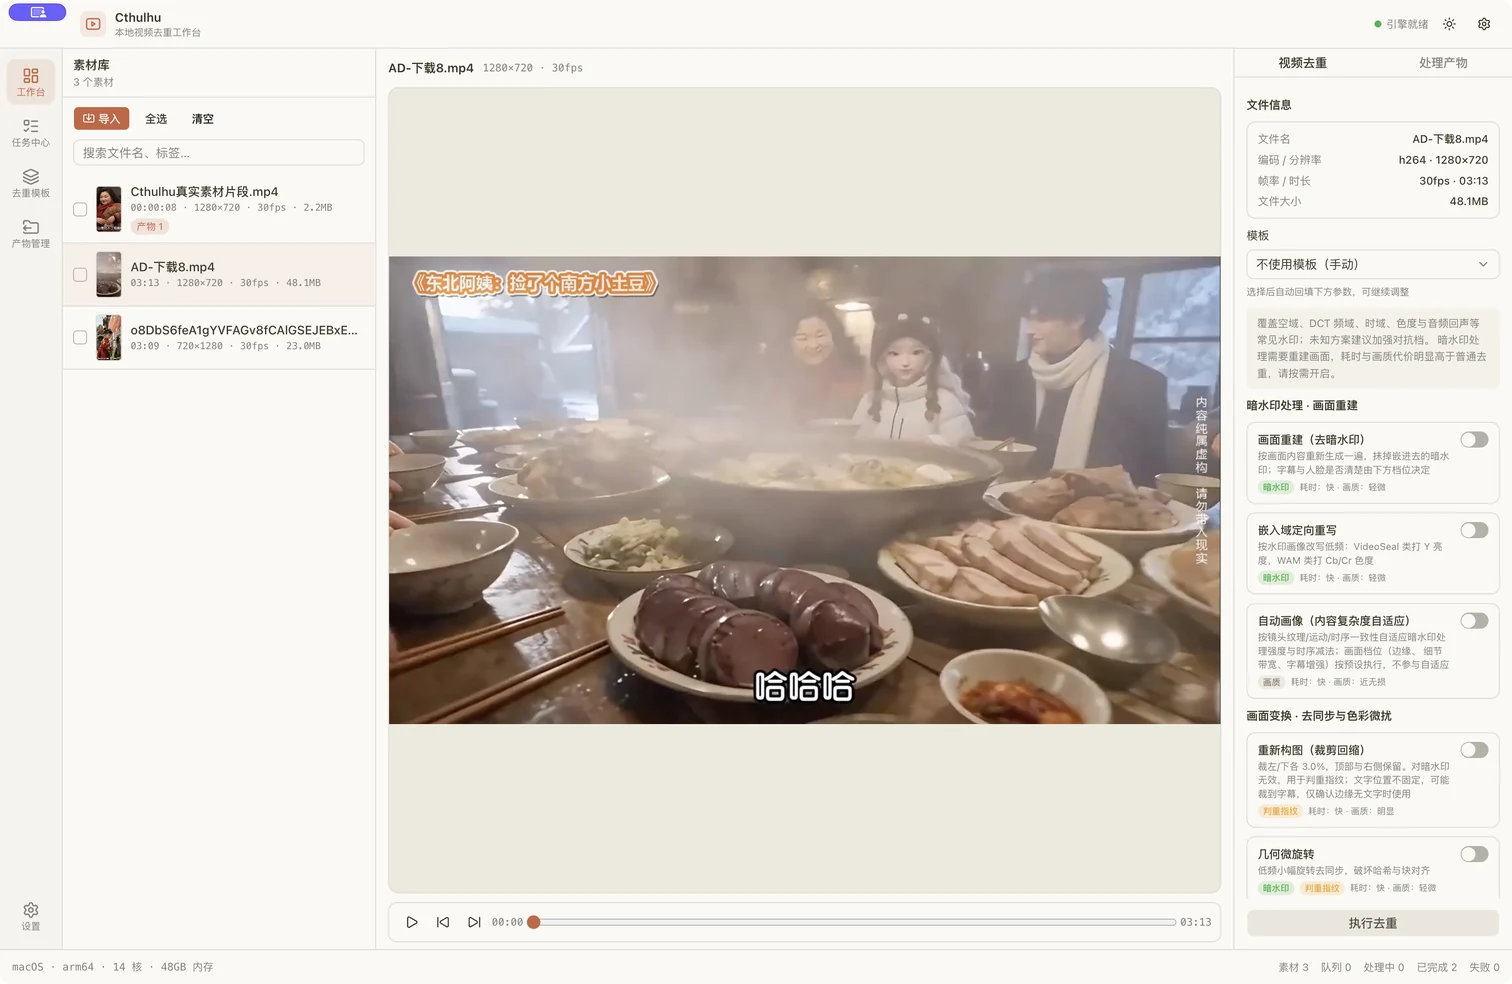
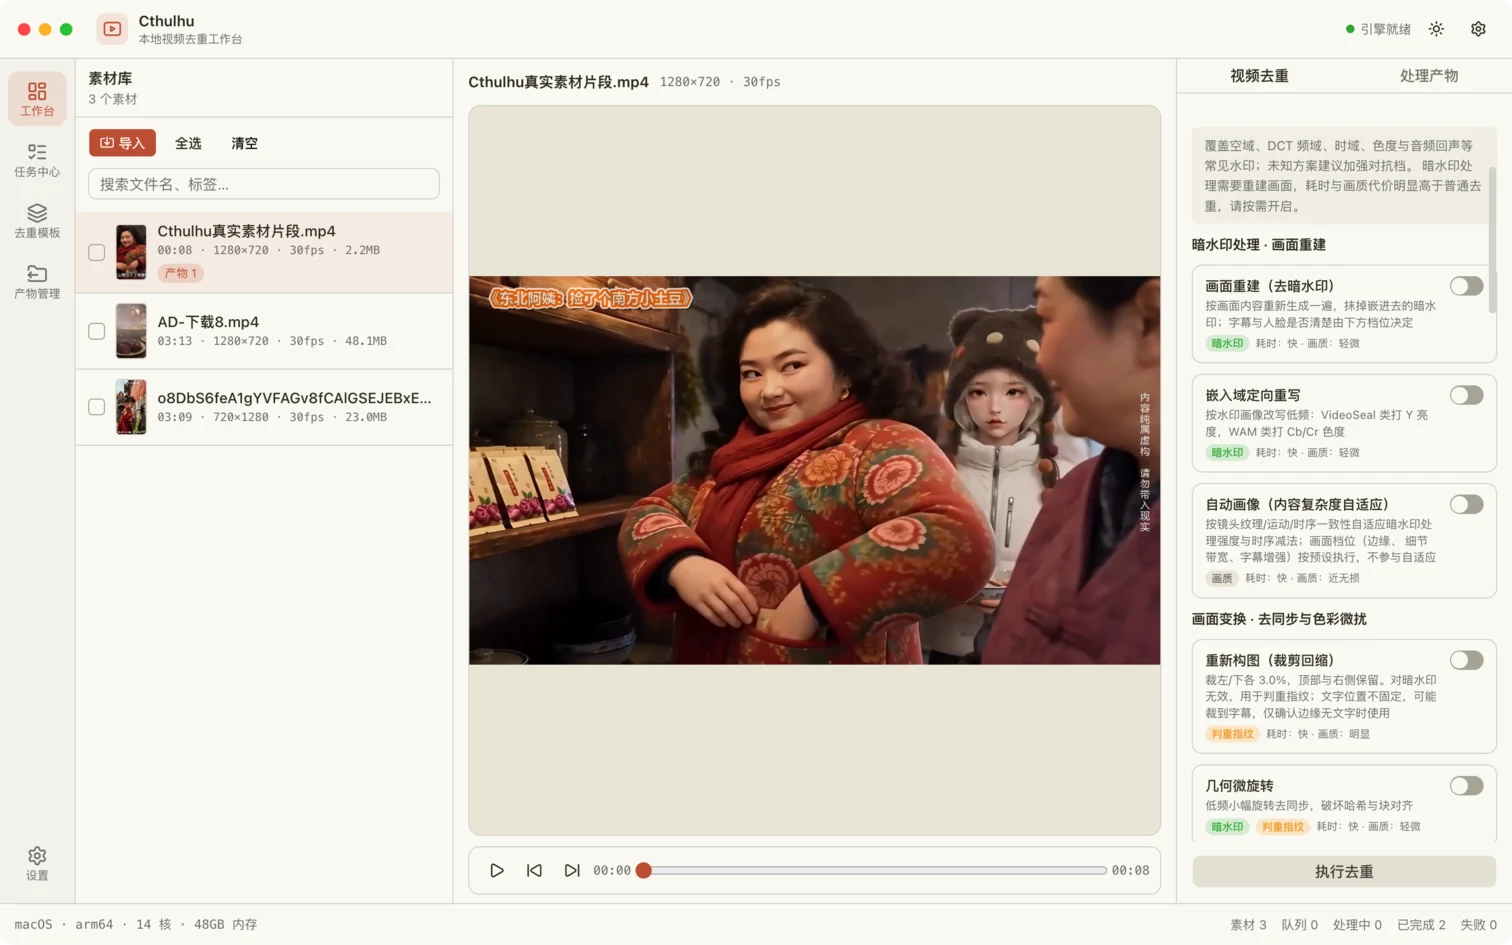
docs: 精简界面截图并更新工作台配图

diff --git a/docs/界面导览.md b/docs/界面导览.md
@@ -6,18 +6,15 @@
 > 规避平台规则、去除版权/溯源水印、侵权搬运、账号矩阵规避或其他违法违规用途。
 > 完整边界见 [使用边界与合规声明](使用边界与合规声明.md)。
 
-本文按视图逐一说明应用的界面构成与交互入口，用于快速建立整体印象。所有截图取自
-当前桌面版，工作台与对比页使用本地真实视频；任务记录中的个人目录路径已脱敏。
+本文按视图逐一说明应用的界面构成与交互入口，用于快速建立整体印象。工作台截图取自
+当前桌面版，使用本地真实视频。
 
 ## 1. 工作台
 
 <p align="center">
-  <picture>
-    <source media="(prefers-color-scheme: dark)" srcset="assets/screenshots/ui-workbench-dark.webp">
-    <img src="assets/screenshots/ui-workbench-light.webp" alt="工作台：左侧素材库、中间真实视频预览、右侧去重参数与产物面板" width="880">
-  </picture>
+  <img src="assets/screenshots/ui-workbench-light.webp" alt="工作台：左侧素材库、中间真实视频预览、右侧去重参数与产物面板" width="880">
   <br>
-  <sub>工作台：素材库 · 预览 · 参数面板（上图为浅色主题，深色主题自动跟随系统或手动切换）</sub>
+  <sub>工作台：素材库 · 预览 · 参数面板（浅色主题）</sub>
 </p>
 
 | 区域 | 内容与入口 |
@@ -28,21 +25,7 @@
 | 右侧 · 处理产物 | 当前素材的产物列表，支持对比原片、播放、打开所在目录、查看参数快照与删除 |
 | 顶部与底部 | 引擎就绪状态、主题切换、设置入口；底部状态栏显示系统信息与素材 / 队列计数 |
 
-### 产物对比
-
-<p align="center">
-  <img src="assets/screenshots/ui-workbench-compare.webp" alt="处理产物与原片的前后对比视图" width="880">
-  <br>
-  <sub>对比原片：同一时间轴上的「原片 / 处理后」滑块对照，用于人工核查观感代价</sub>
-</p>
-
 ## 2. 任务中心
-
-<p align="center">
-  <img src="assets/screenshots/ui-jobs.webp" alt="任务中心：队列状态统计与任务历史列表" width="880">
-  <br>
-  <sub>任务中心：排队 / 处理中 / 已完成 / 失败统计，任务历史含耗时、输出路径与所用管线</sub>
-</p>
 
 - 批量任务统一入队，按设置的并行度调度，支持优先级、暂停、继续、取消、失败重试与历史清理；
 - 每条任务记录素材名、创建时间、耗时、输出路径与管线档位，可直接打开产物所在目录；
@@ -50,34 +33,16 @@
 
 ## 3. 去重模板
 
-<p align="center">
-  <img src="assets/screenshots/ui-templates.webp" alt="去重模板管理：内置预设与各项参数概览" width="880">
-  <br>
-  <sub>去重模板：内置四档预设（画质优先 / 平衡去水印 / 强力去水印 / 深度清剿），可新建、编辑、复制与删除</sub>
-</p>
-
 模板把一次去重用到的参数组合固化为可复用对象，卡片上直接展示经典指纹、空间降噪
 与音频重混、重编码与信号扰动、暗水印处理与嵌入域、输出编码等分组下的启用项数，
 便于在复用前快速核对强度与代价。
 
 ## 4. 产物管理
 
-<p align="center">
-  <img src="assets/screenshots/ui-products.webp" alt="产物管理：产物总数、占用空间与产物清单" width="880">
-  <br>
-  <sub>产物管理：集中查看产物数量、占用空间、来源素材与生成时间，并支持批量清理</sub>
-</p>
-
 产物按时间倒序排列，可直接打开或删除；「文件缺失」计数用于提示被外部移动或删除
 的产物，避免实验记录与磁盘内容不一致。
 
 ## 5. 设置
-
-<p align="center">
-  <img src="assets/screenshots/ui-settings.webp" alt="设置：默认导出目录、命名规则、并行度、管线与编码选项" width="880">
-  <br>
-  <sub>设置：默认导出目录、产物命名规则、并行任务数、滤镜精度、处理管线与编码档位</sub>
-</p>
 
 设置项覆盖默认导出目录与命名规则、并行任务数、滤镜内部精度、处理管线、编码速度与
 编码加速、界面主题，并在「运行环境」中给出视频处理引擎的就绪状态。
@@ -86,8 +51,7 @@
 
 1. 使用 `pnpm dev:desktop` 启动当前桌面版。
 2. 导入一段自有或已获授权的真实视频；需要产物截图时，先完成一次短片段去重。
-3. 依次打开工作台、任务中心、去重模板、产物管理和设置，等待页面数据加载完成。
-4. 工作台分别截取浅色与深色主题，其余页面使用浅色主题。
-5. 输出宽度为 1512 像素，保存为 WebP，文件命名 `ui-<视图>.webp`，存放于
+3. 在未启用远程控制提示覆盖层时截取工作台。
+4. 输出尺寸为 1512×945，保存为 WebP，文件命名 `ui-workbench-light.webp`，存放于
    `docs/assets/screenshots/`。
-6. 更新前检查画面；素材名称或输出路径包含个人信息时，先对路径区域做模糊处理。
+5. 更新前检查窗口左上角，确认没有控制器、录屏或其他系统浮层。

diff --git a/README.md b/README.md
@@ -16,10 +16,7 @@
 </p>
 
 <p align="center">
-  <picture>
-    <source media="(prefers-color-scheme: dark)" srcset="docs/assets/screenshots/ui-workbench-dark.webp">
-    <img src="docs/assets/screenshots/ui-workbench-light.webp" alt="Cthulhu 工作台：素材库、真实视频预览和视频去重参数" width="880">
-  </picture>
+  <img src="docs/assets/screenshots/ui-workbench-light.webp" alt="Cthulhu 工作台：素材库、真实视频预览和视频去重参数" width="880">
 </p>
 
 > **使用边界**：仅处理自有或已获授权的视频；严禁用于规避平台规则、去除版权 /
@@ -101,43 +98,6 @@ Cthulhu 是一个本地桌面工作台，把视频导入、播放预览、批量
 - 设置同时处理任务数、滤镜内部精度、处理管线和编码速度档。
 - 选择 H.265 编码使用 CPU 或自动硬编加速。
 - 查询视频处理引擎状态；缺少 FFmpeg 时可在应用内尝试安装或选择本机可执行文件。
-
-## 真实界面
-
-以下截图来自当前桌面版，工作台和对比页使用本地真实视频；任务列表中的个人目录路径
-已做模糊处理。
-
-### 原片与处理产物对比
-
-<p align="center">
-  <img src="docs/assets/screenshots/ui-workbench-compare.webp" alt="Cthulhu 原片与处理产物对比" width="880">
-  <br>
-  <sub>同一时间轴上的滑块对比：左侧为原片，右侧为处理产物</sub>
-</p>
-
-### 任务中心
-
-<p align="center">
-  <img src="docs/assets/screenshots/ui-jobs.webp" alt="Cthulhu 任务中心：真实视频处理记录、状态和输出" width="880">
-</p>
-
-### 去重模板
-
-<p align="center">
-  <img src="docs/assets/screenshots/ui-templates.webp" alt="Cthulhu 去重模板管理" width="880">
-</p>
-
-### 产物管理
-
-<p align="center">
-  <img src="docs/assets/screenshots/ui-products.webp" alt="Cthulhu 产物管理：真实视频产物、大小和来源" width="880">
-</p>
-
-### 设置
-
-<p align="center">
-  <img src="docs/assets/screenshots/ui-settings.webp" alt="Cthulhu 设置：导出目录、并行任务、管线和编码选项" width="880">
-</p>
 
 ## 典型使用流程
 
